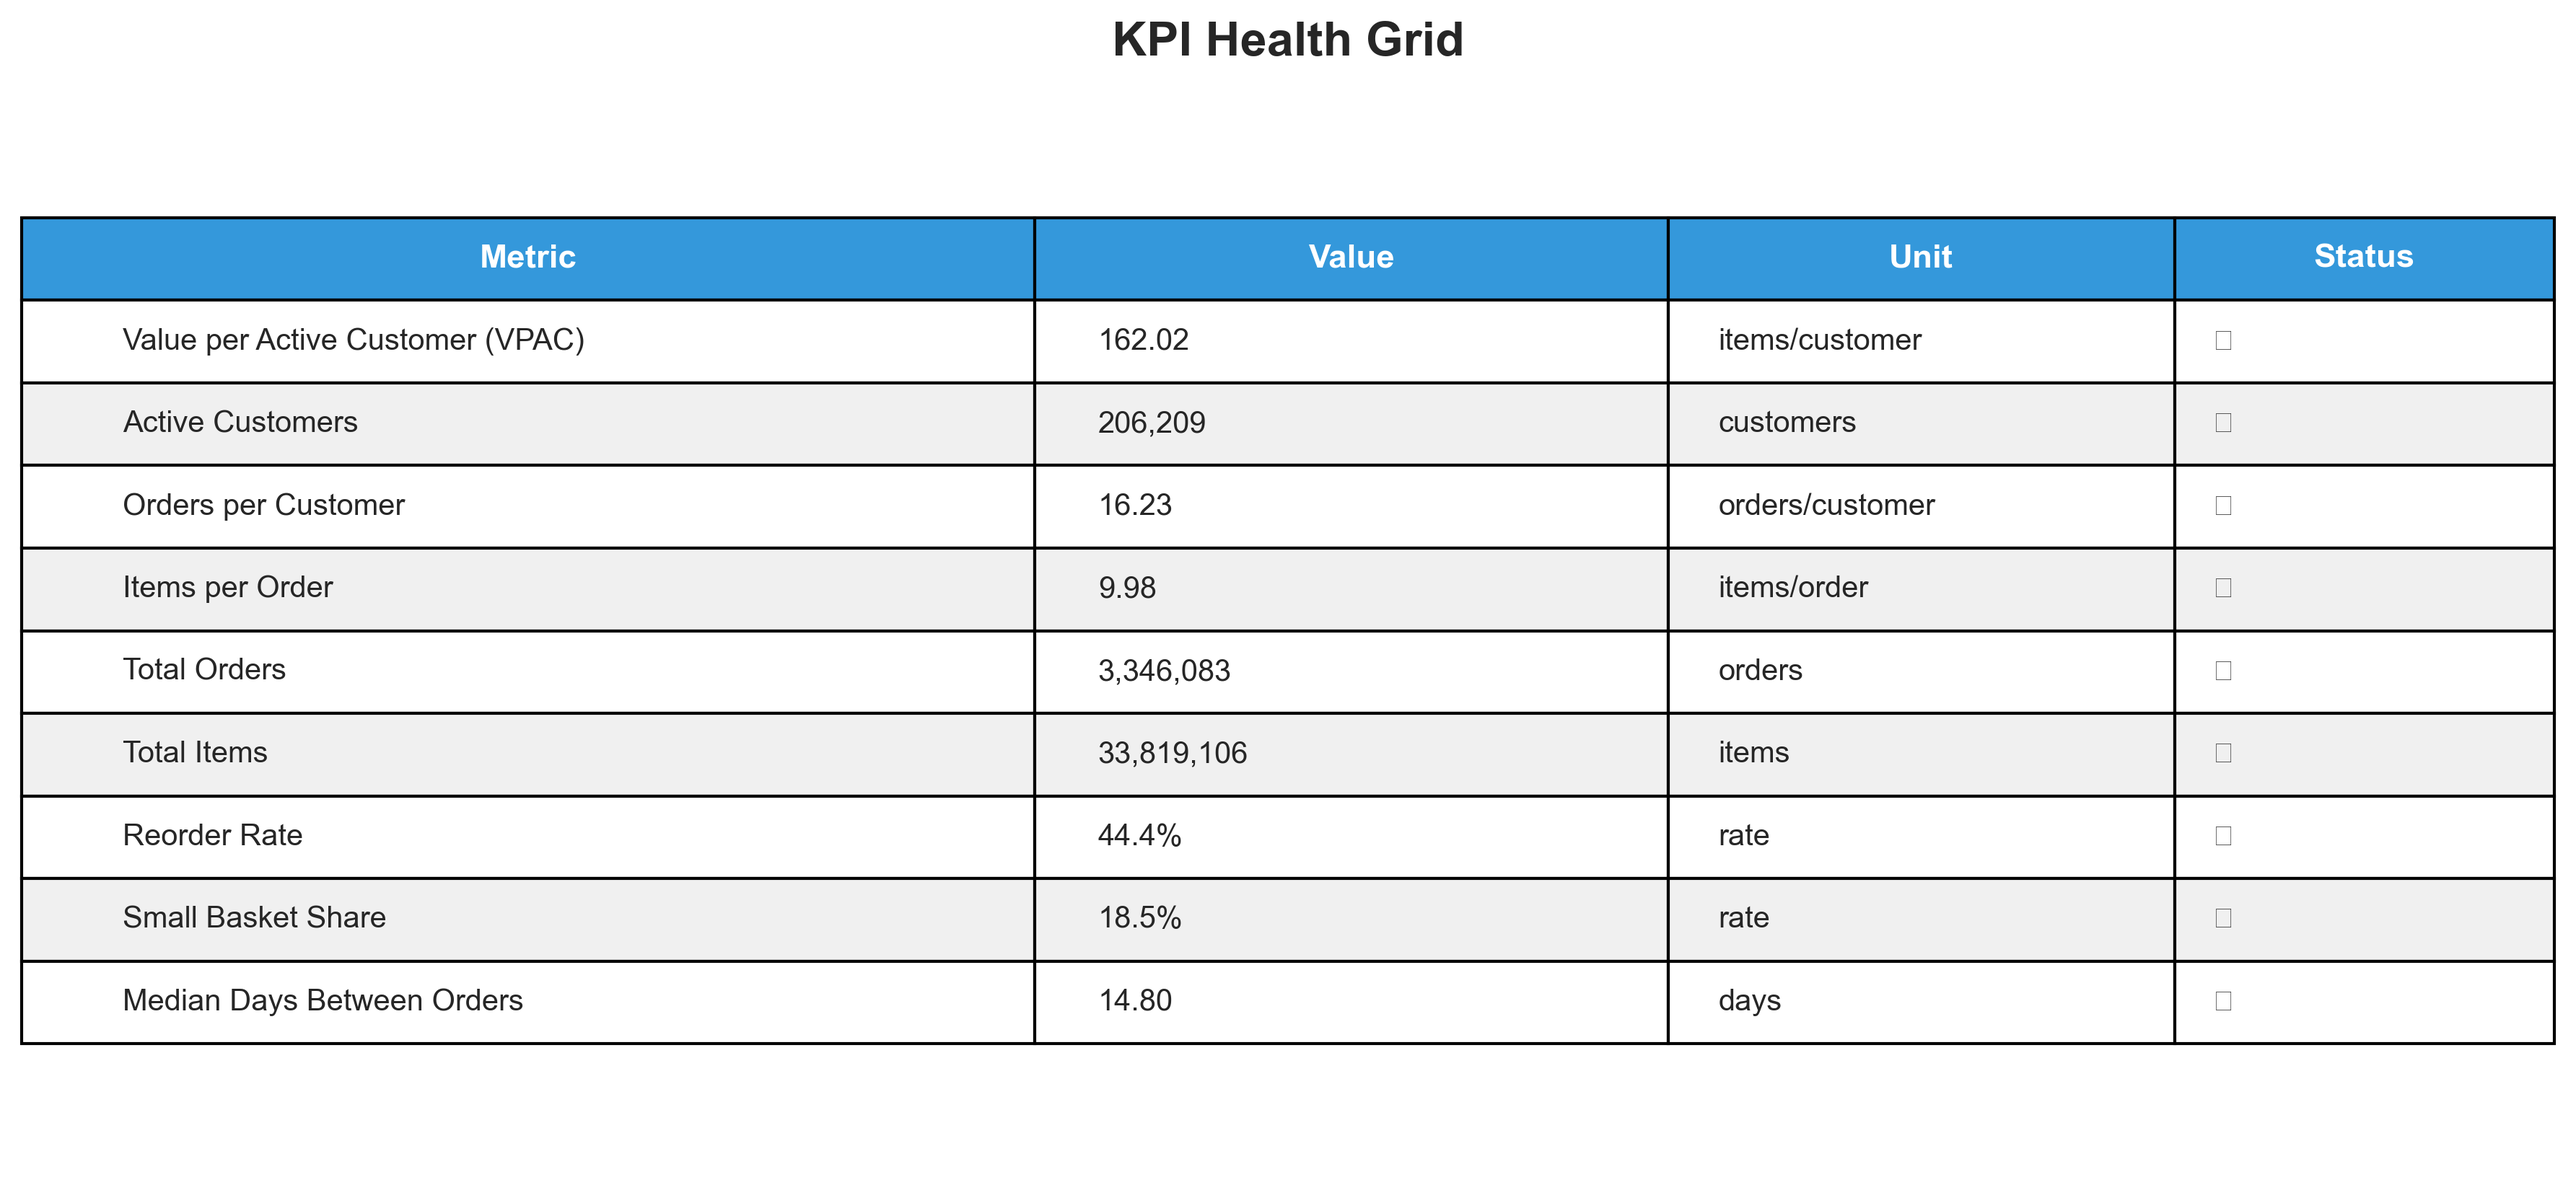
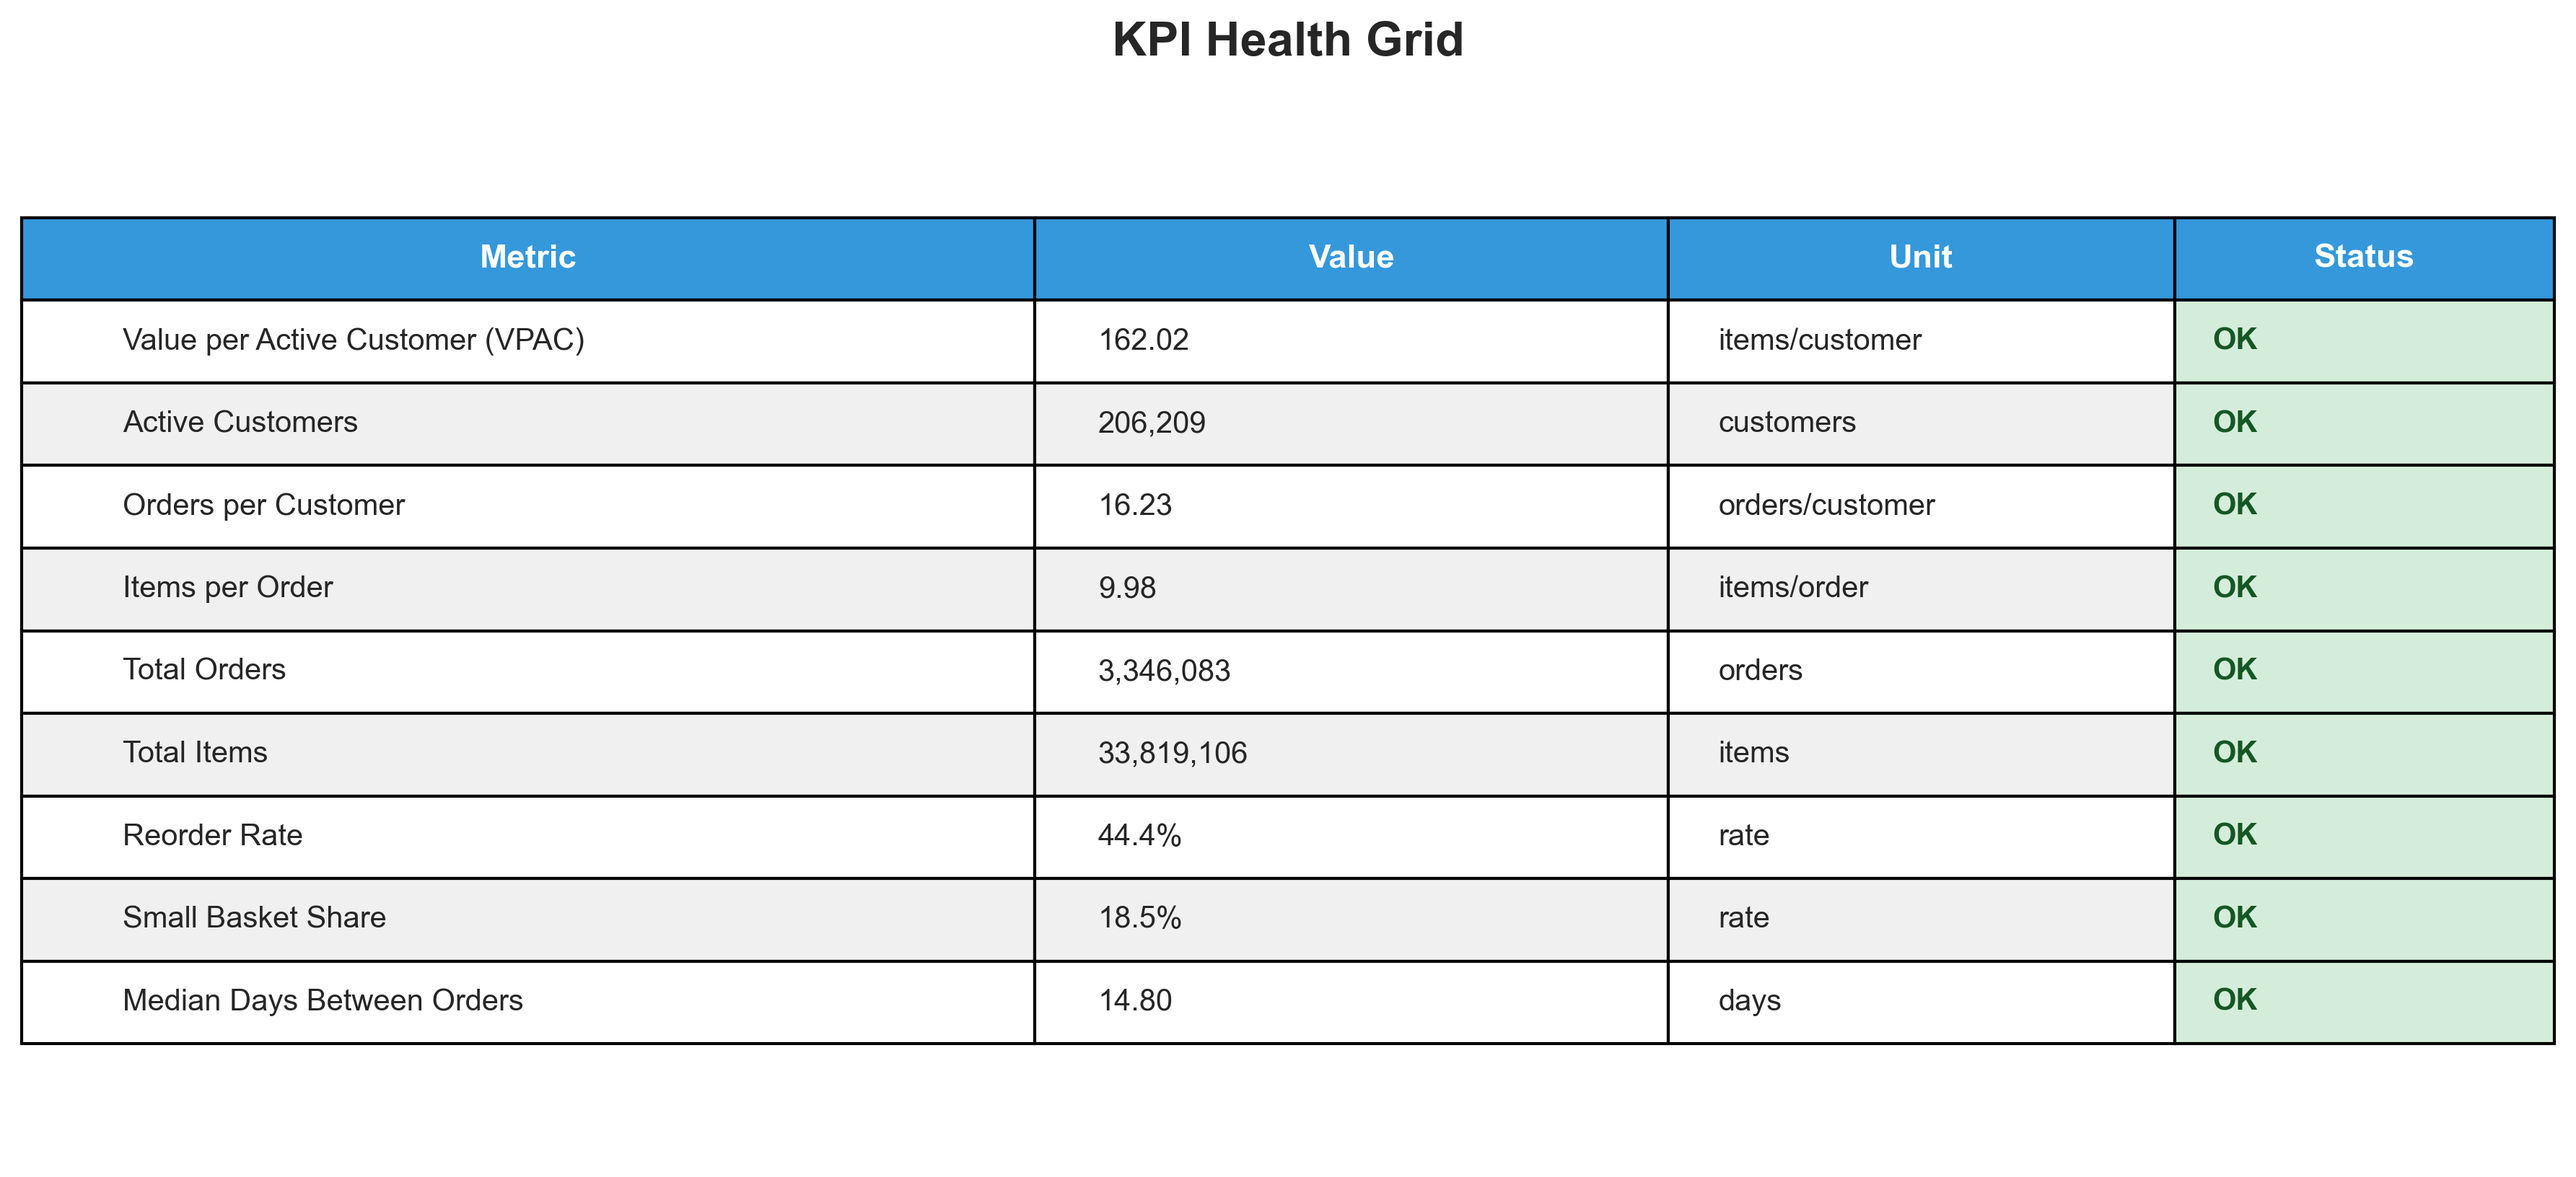
Fixed KPI health grid status indicators with color-coded text

Changed region(s): [[0.8395, 0.25, 0.995, 0.9062]]

diff --git a/src/viz/charts.py b/src/viz/charts.py
@@ -347,14 +347,30 @@ class KPIVisualizer:
             cell.set_facecolor(COLOR_PRIMARY)
             cell.set_text_props(weight='bold', color='white', fontsize=LABEL_FONTSIZE)
         
-        # Alternating row colors
+        # Alternating row colors and status coloring
         for i in range(1, len(table_data) + 1):
             for j in range(4):
                 cell = table[(i, j)]
+                
+                # Base row color
                 if i % 2 == 0:
-                    cell.set_facecolor('#f0f0f0')
+                    base_color = '#f0f0f0'
                 else:
-                    cell.set_facecolor('white')
+                    base_color = 'white'
+                
+                # Status column gets special coloring
+                if j == 3:  # Status column
+                    status_text = table_data[i-1][3]
+                    if status_text == "OK":
+                        cell.set_facecolor('#d4edda')  # Light green
+                        cell.set_text_props(weight='bold', color='#155724')
+                    elif status_text == "WARNING":
+                        cell.set_facecolor('#f8d7da')  # Light red
+                        cell.set_text_props(weight='bold', color='#721c24')
+                    else:
+                        cell.set_facecolor(base_color)
+                else:
+                    cell.set_facecolor(base_color)
         
         fig.suptitle('KPI Health Grid', fontsize=TITLE_FONTSIZE + 2, fontweight='bold', y=0.98)
         
@@ -377,34 +393,34 @@ class KPIVisualizer:
             unit: Unit type
             
         Returns:
-            Status symbol (✓ for healthy, ⚠ for warning)
+            Status text (OK or WARNING)
         """
         # Define threshold checks
         if metric_name == 'small_basket_share':
             # Warning if > 30%
-            return "⚠" if value > 0.30 else "✓"
+            return "WARNING" if value > 0.30 else "OK"
         
         elif metric_name in ['vpac', 'orders_per_customer', 'items_per_order']:
             # These should be > 0, always healthy if positive
-            return "✓" if value > 0 else "⚠"
+            return "OK" if value > 0 else "WARNING"
         
         elif metric_name == 'reorder_rate':
             # Healthy if between constraints and reasonably high
             if 0 <= value <= 1 and value >= 0.30:  # At least 30% reorder rate is good
-                return "✓"
+                return "OK"
             else:
-                return "⚠"
+                return "WARNING"
         
         elif metric_name in ['active_customers', 'total_orders', 'total_items']:
             # Count metrics - always show as healthy if > 0
-            return "✓" if value > 0 else "⚠"
+            return "OK" if value > 0 else "WARNING"
         
         elif metric_name == 'median_days_since_prior':
             # Healthy if between 1 and 30 days (not too frequent, not too infrequent)
-            return "✓" if 1 <= value <= 30 else "⚠"
+            return "OK" if 1 <= value <= 30 else "WARNING"
         
         # Default: show as healthy
-        return "✓"
+        return "OK"
     
     
     def plot_segment_comparison(

diff --git a/reports/weekly_business_review.md b/reports/weekly_business_review.md
@@ -1,6 +1,6 @@
 # Weekly Business Review
 
-**Generated:** 2026-01-20 15:43
+**Generated:** 2026-01-20 15:55
 
 ---
 
